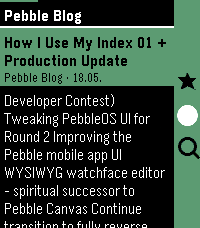
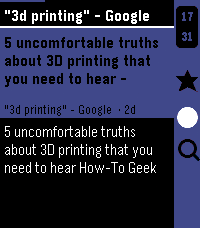
feat: 0.3.23 — hold DOWN/UP for fast scroll (repeating clicks)
- UP/DOWN are repeating clicks (100ms): one press = one page, holding
  scrolls continuously — a 4095-char article (~2800px of text, ~18
  presses) scrolls through in ~2s of holding; holding past the end
  auto-advances for fast reading
- version 0.3.23

diff --git a/src/timeline.c b/src/timeline.c
@@ -1596,8 +1596,11 @@ static void timeline_back_click(ClickRecognizerRef rec, void *ctx) {
 //! scroll_layer_set_click_config_onto_window) so the reader controls the
 //! advance semantics; scrolling delegates to the scroll layer's handlers.
 static void timeline_click_config_provider(void *ctx) {
-  window_single_click_subscribe(BUTTON_ID_UP, timeline_up_click);
-  window_single_click_subscribe(BUTTON_ID_DOWN, timeline_down_click);
+  // Repeating clicks: a single press scrolls one page; HOLDING UP/DOWN
+  // repeats every 100 ms, so a very long article (up to ~2800 px of text)
+  // scrolls through in a couple of seconds instead of ~18 presses.
+  window_single_repeating_click_subscribe(BUTTON_ID_UP, 100, timeline_up_click);
+  window_single_repeating_click_subscribe(BUTTON_ID_DOWN, 100, timeline_down_click);
   window_single_click_subscribe(BUTTON_ID_SELECT, timeline_select_click);
   window_long_click_subscribe(BUTTON_ID_SELECT, 500, timeline_star_long_click, NULL);
   window_single_click_subscribe(BUTTON_ID_BACK, timeline_back_click);

diff --git a/CHANGELOG.md b/CHANGELOG.md
@@ -1,5 +1,13 @@
 # Changelog
 
+## 0.3.23
+
+- **Hold DOWN/UP = fast scroll**: UP/DOWN are now repeating clicks — a
+  single press scrolls one page, holding repeats every 100 ms. A very long
+  article (the 4095-char full-text cap can reach ~2800 px of text, ~18
+  presses) scrolls through in a couple of seconds of holding, and holding
+  past the end auto-advances for fast reading.
+
 ## 0.3.22
 
 - **Starred stream never unread-filters**: the "Unread only" toggle was
